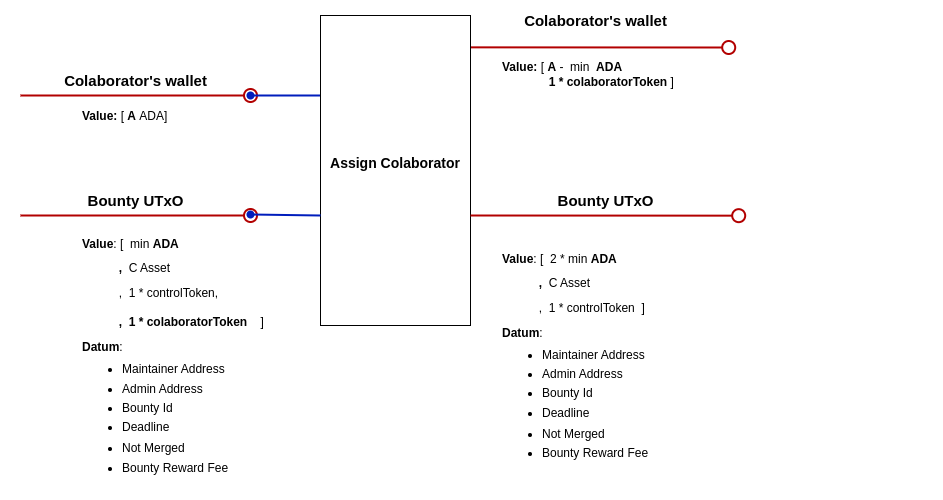
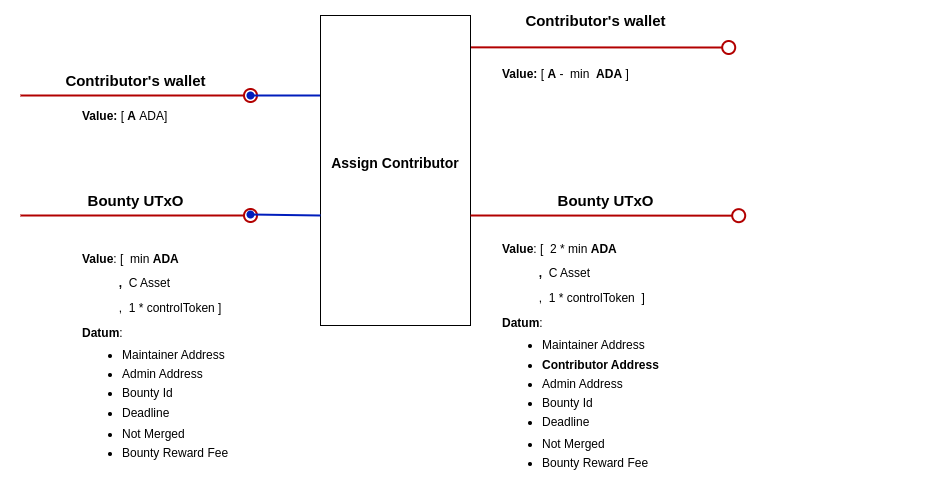
Design with contributor in datum

diff --git a/docs/design.md b/docs/design.md
@@ -4,7 +4,7 @@
 
 This document describes the technical design of the GitHoney dApp - the script UTxOs involved, the operations that take place during the bounty lifecycle, and the necessary validators and minting policies.
 
-There will be a single `BountyUtxo` for each bounty, which will hold the reward assets deposited by the maintainers. A `ContributorToken` and a `ControlToken` will be minted and held in the `BountyUtxo` until a contributor takes the `ContributorToken`, representing their assignment to the bounty. The `ControlToken` ensures the correctness of the `BountyUtxo` datum.
+There will be a single `BountyUtxo` for each bounty, which will hold the reward assets deposited by the maintainers. A `ControlToken` will be minted and held in the `BountyUtxo` until a contributor is assigned to the bounty, at which point their `PaymentPubKeyHash` will be added to the datum. The `ControlToken` ensures the correctness of the `BountyUtxo` datum.
 
 ## UTxOs specification
 
@@ -21,19 +21,19 @@ There will be a single `BountyUtxo` for each bounty, which will hold the reward 
 > - bounty_id: **String**
 > - admin: **PaymentPubKeyHash**
 > - merged: **Bool**
+> - contributor: **PaymentPubKeyHash** (if assigned)
 >
 > #### Value
 >
 > - minAda
 > - reward_assets: **MultiAsset**
-> - `ContributorToken` (if not assigned)
 > - `ControlToken`
 
 ## Transactions
 
 ### Create BountyUtxo:
 
-This transaction creates a `BountyUtxo` locking the reward assets and minting a `ContributorToken` and a `ControlToken`. It sets the maintainer, deadline, bounty_id, admin, and merged (False) in the datum.
+This transaction creates a `BountyUtxo` locking the reward assets and minting a `ControlToken`. It sets the maintainer, deadline, bounty_id, admin, and merged (False) in the datum.
 
 ![createBounty diagram](img/createBounty.png)
 
@@ -45,7 +45,7 @@ Adds additional reward assets to an existing `BountyUtxo`.
 
 ### Assign Contributor:
 
-Transfers the `ContributorToken` from the `BountyUtxo` to the contributor's address.
+Sets the contributor's `PaymentPubKeyHash` to the `BountyUtxo` datum.
 
 ![assignContributor diagram](img/assignContributor.png)
 
@@ -80,9 +80,8 @@ Pays the contributor the remaining reward assets and burns the `ControlToken`.
 
 #### _AssignContributor Redeemer_
 
-- `ContributorToken` is transferred from the `BountyUtxo` to the contributor's address.
-- Utxo assets besides the `ContributorToken` don't change.
-- Datum doesn't change.
+- Contributor's `PaymentPubKeyHash` is added to the `BountyUtxo` datum.
+- Utxo assets don't change.
 
 #### _CloseBounty Redeemer_
 
@@ -101,7 +100,7 @@ Pays the contributor the remaining reward assets and burns the `ControlToken`.
 #### _ClaimBounty Redeemer_
 
 - `BountyUtxo` input with merged field setted to true.
-- `ContributorToken` is present in the inputs.
+- Contributor's `PaymentPubKeyHash` is present in the signers.
 - Remaining reward assets in utxo are payed to the contributor.
 
 ### mintingPolicy:
@@ -110,8 +109,8 @@ Pays the contributor the remaining reward assets and burns the `ControlToken`.
 
 #### MINT:
 
-- A single `ContributorToken` and `ControlToken` are minted.
-- The minted tokens are paid to the `BountyValidatorAddress`.
+- A single `ControlToken` is minted.
+- The minted token is paid to the `BountyValidatorAddress`.
 - The datum of the `BountyUtxo` is checked for correctness.
 - Datum merged field must be False.
 
